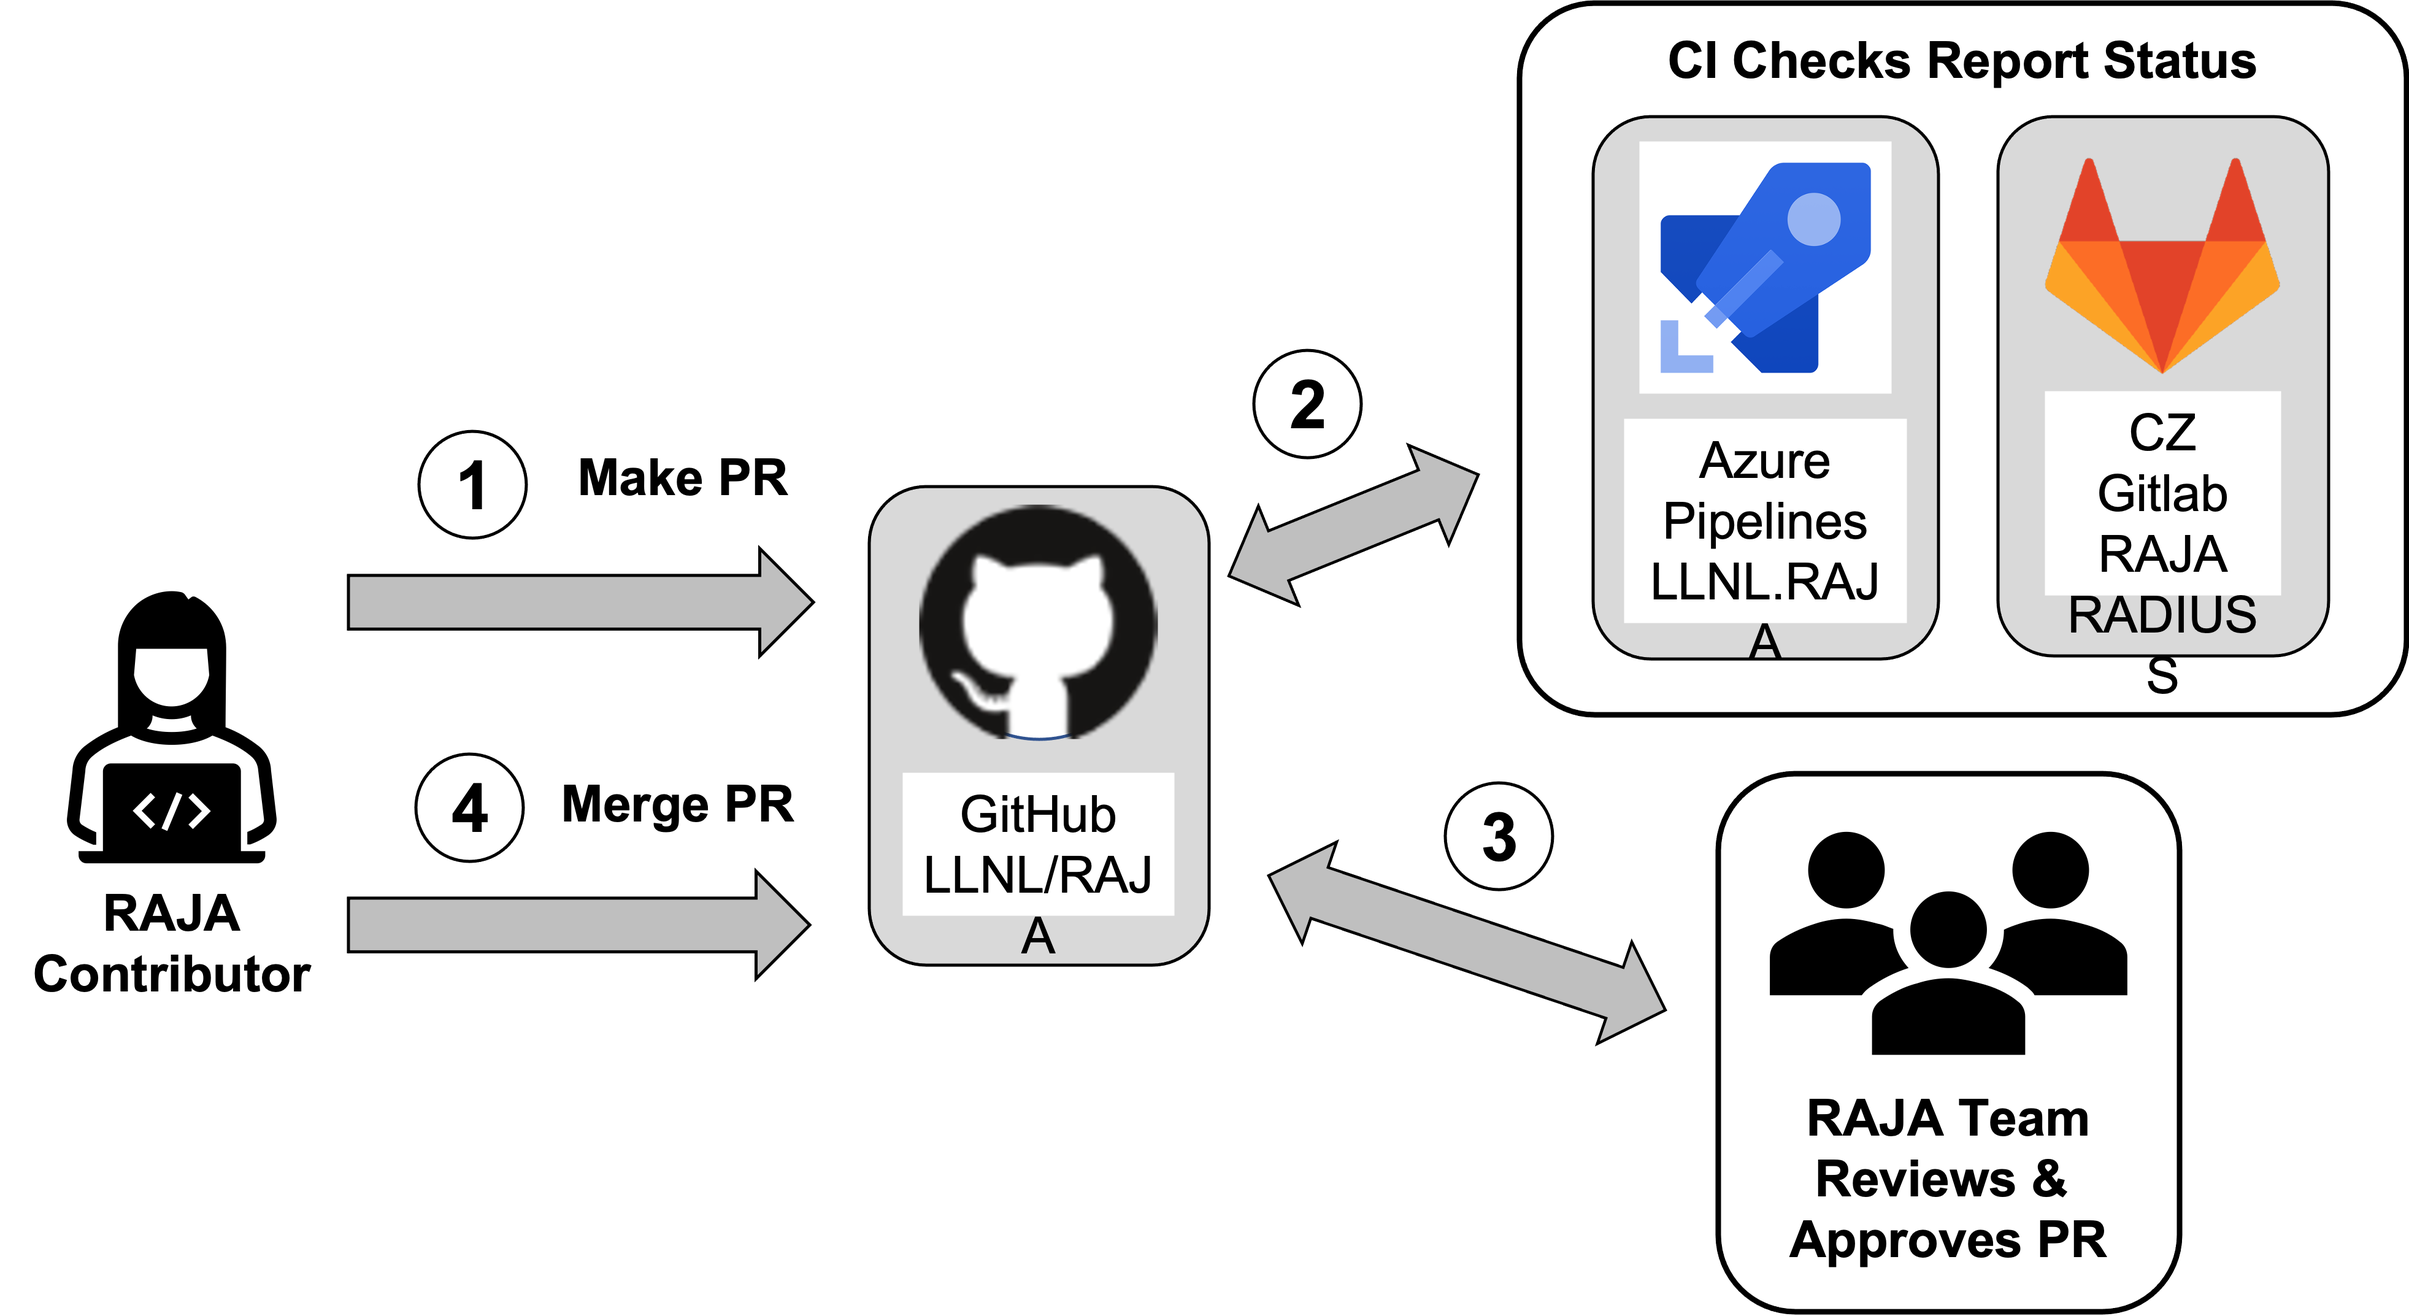
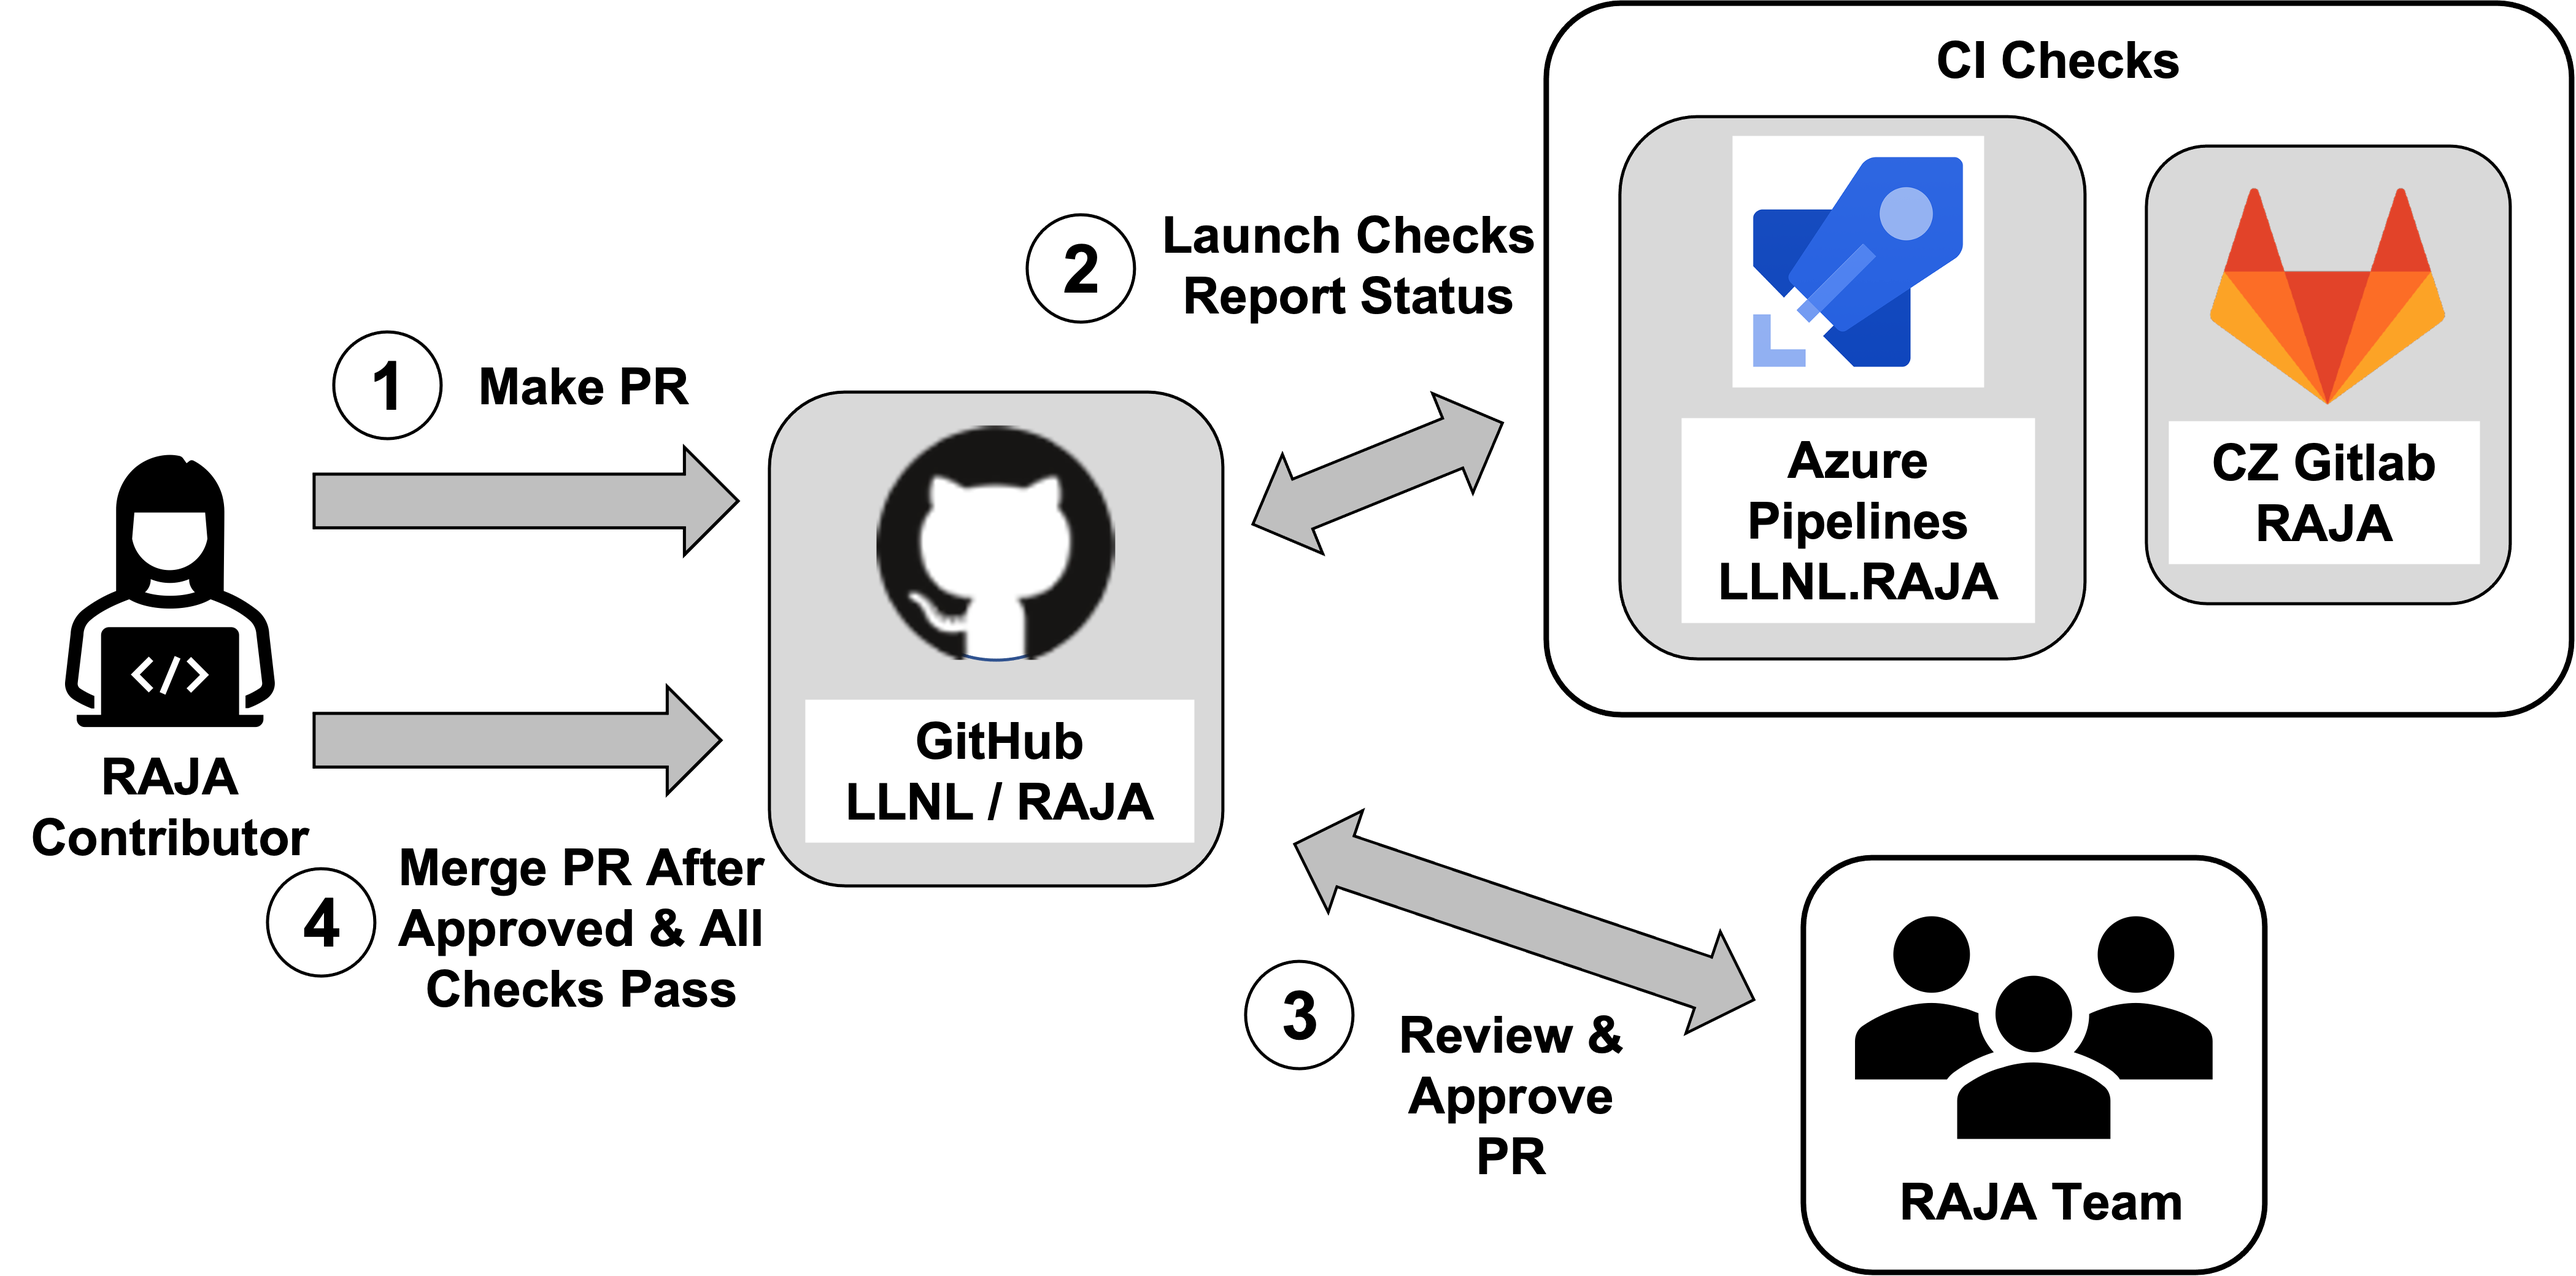
Add more gitlab ci description and new figs

diff --git a/docs/sphinx/dev_guide/ci.rst b/docs/sphinx/dev_guide/ci.rst
@@ -12,37 +12,51 @@
 Continuous Integration (CI) Testing
 ************************************
 
-The RAJA project employs multiple tools to run tests for each GitHub
-*pull request*, all of which must pass before the pull request will be merged.
-These tools include:
+The RAJA project employs multiple tools to run CI tests for each GitHub
+*Pull Request (PR)*. All test checks must pass before the pull request can 
+be merged. These tools include:
 
-  * **Azure Pipelines.** This runs builds for Linux, Windows, and MacOS 
-    environments using a variety of compilers. While we do GPU builds for 
-    CUDA, HIP, and SYCL on Azure, RAJA tests are only run each CPU-only 
-    pipeline.
+  * **Azure Pipelines** is used to run builds and tests for Linux, Windows, 
+    and MacOS environments using very recent versions of various compilers. 
+    While we do GPU builds for CUDA, HIP, and SYCL on Azure, RAJA tests are 
+    only run for CPU-only pipelines.
 
-  * **Gitlab.** We use the Livermore Computing (LC) Collaboration Zone (CZ)
-    Gitlab instance to run builds and tests on LC platforms. Execution of
-    RAJA CI pipelines on the LC Gitlab instance has restrictions that are
-    described bwlow.
+  * **Gitlab** instance in the Livermore Computing (LC) Collaboration Zone (CZ)
+    is used to run builds and tests with LC platform and compiler environments
+    most important to many RAJA user applications. Execution of RAJA CI 
+    pipelines on the LC Gitlab instance has restrictions described below.
 
 For the most part, these tools integrate seamlessly with GitHub. They 
 automatically (re)run RAJA builds and tests as changes are pushed to each 
 PR branch.
 
-The following figure illustrates the how CI testing fits into the RAJA 
-development workflow.
+The following figure illustrates the how CI test checks fit into the RAJA 
+development workflow. The process involves four main steps:
+
+  #. A RAJA contributor makes a PR on the RAJA GitHub project to merge a 
+     branch on which she has developed a contribution into another RAJA branch.
+     Most often, this is the develop branch.
+  #. Then, GitHub triggers Azure and Gitlab CI checks. Running and pass/fail
+     status is reported back to GitHub where it can be viewed and monitored.
+  #. Meanwhile RAJA team members review the PR, suggesting changes and/or 
+     approving when they think it is ready to merge. 
+  #. When all checks pass and the PR is approved by the required minimum 
+     number of reviewers, the PR may be merged.
 
 .. figure:: ./figures/PR-Workflow.png
 
-.. note:: The status of checks (pass/fail, running status) for each of these 
-          tools can be viewed by clicking the appropriate link in the **checks**
-          section of a pull request.
+   The four main steps in the RAJA pull request (PR) process, which are
+   common practices for many software projects.
+
+.. note:: * All test checks must pass before the pull request can be merged.
+          * The status (pass/fail and run) for all checks can be viewed by 
+            clicking the appropriate link in the **checks** section of a 
+            GitHub pull request.
 
 Gitlab CI
 =========
 
-Gitlab CI testing is still being developed to expand compiler and version 
+Gitlab CI testing is under development to expand compiler and version 
 coverage, as well as cross-project testing, such as building and running the
 `RAJA Performance Suite <https://github.com/LLNL/RAJAPerf>`_ when changes 
 are pushed to the RAJA develop branch. 
@@ -52,58 +66,111 @@ Constraints
 
 Running the RAJA Gitlab CI on Livermore Computing (LC) resources is 
 constrained by LC security policies. Auto-mirroring of a GitHub project repo
-on LC Gitlab requires that all memmbers of the GitHub project are members of 
+on LC Gitlab requires that all members of the GitHub project are members of 
 the LLNL GitHub organization and have two-factor authentication enabled on 
 their GitHub accounts. Gitlab CI will run automatically for such projects on 
 pull requests that are made by vetted project members. Otherwise, Gitlab CI 
 must be run manually by a vetted GitHub user satisfying the constraints just
 described.
 
-The folowing sections describe contents of the RAJA repository that support
-Gitlab CI testing in the LC CZ, how they fit together to define our
-Gitlab testing workflow, and how to perform basic maintenance and development
-tasks.
-
-Gitlab CI (LC CZ) Testing and Workflow
+Gitlab CI (LC CZ) Testing Workflow
 --------------------------------------
 
-The following figure illustrates the directories and files in the RAJA 
-repo that support Gitlab CI testing in the LC CZ. The file
+The next figure provides a high-level overview of the main steps in the 
+RAJA Gitlab CI testing workflow. We will describe the individual steps in
+more detail later. The main steps are:   
+
+  #. The process starts with the RAJA GitHub repo being *mirrored* to the 
+     RAJA project in the LC CZ Gitlab instance. When a PR is made on the RAJA 
+     GitHub project or whenever changes are pushed to the source branch of a 
+     PR, the mirroring occurs.
+  #. Gitlab CI test pipelines are launched. Execution and pass/fail status
+     may be viewed and monitored in the Gitlab CI GUI.
+  #. For each platform and compiler combination, the 
+     `Spack <https://github.com/spack/spack>`_ tool generates a build 
+     configuration in the form of a CMake cache or *host-config* file.
+  #. Based on the information in each host-config file, the RAJA code and tests
+     are built.
+  #. Next, the RAJA tests are run.
+  #. When a test pipeline completes, results are reported to Gitlab.
+
+In the next section, we will describe the roles that specific files in the 
+RAJA repo play in defining these steps.
+
+.. figure:: ./figures/RAJA-Gitlab-Workflow2.png
+
+   The main steps in the RAJA Gitlab CI testing workflow. This process is
+   triggered when a developer makes a PR on the GitHub project and is 
+   repeated whenever changes are pushed to the source branch of the PR.
+
+Gitlab CI (LC CZ) Testing Files
+--------------------------------------
+
+The following figure shows directories and files in the RAJA repo that 
+support LC CZ Gitlab CI testing. File names in blue denote that they are 
+specific to RAJA and owned by the RAJA team. Red directories and files denote 
+that they are part of Git submodules, shared and maintained with other projects.
+In the following sections, we discuss how these files are used to define the 
+steps in the RAJA Gitlab CI testing process described earlier.
 
 .. figure:: ./figures/RAJA-Gitlab-Files.png
 
-The following figure illustrates the Gitlab CI testing workflow.
+   Directories and files in the RAJA repo that support Gitlab CI testing.
+   Files in blue are specific to RAJA and owned by the RAJA team. Red 
+   directories and files are part of Git submodules shared with other 
+   projects.
 
-.. figure:: ./figures/RAJA-Gitlab-Workflow2.png
+Launching CI pipelines (step 2) 
+^^^^^^^^^^^^^^^^^^^^^^^^^^^^^^^^
+
+In step 2 of the diagram above, Gitlab launches RAJA test pipelines.
+The file ``RAJA/.gitlab-ci.yml`` defines high-level testing stages
+(resource allocation, build-and-test, and resource deallocation), names of 
+scripts that will run, and locations of files that define which jobs will run
+in each allocation.
+
+Running a CI build/test pipeline  (steps 3, 4, 5, 6)
+^^^^^^^^^^^^^^^^^^^^^^^^^^^^^^^^^^^^^^^^^^^^^^^^^^^^^
+
+The ``RAJA/.gitlab`` directory contains a *platform* and *jobs* file for each 
+LC platform where test pipelines will be run. The ``<platform>-templates.yml`` 
+file contains shared configuration information for pipelines that will be run 
+on the platform. The ``<platform>-jobs.yml`` file defines the build 
+specifications that will be use to generate test executables. Specifically, 
+they identify Spack *specs*.
+
+The ``scripts/gitlab/build_and_test.sh`` file defines the steps executed
+for each build and test run as well as information that will appear in the 
+log output for each. The process of executing a test pipeline extends the
+information in the script appropriately for each system. First, the script 
+runs the ``RAJA/scripts/uberenv/uberenv.py`` script (located in the 
+`uberenv <https://github.com/LLNL/uberenv>`_ submodule), which invokes Spack 
+to generate a CMake *host-config* file that contains a RAJA configuration 
+specification (step 3). 
+
+To generate a *host-config* file, Spack uses information in the RAJA Spack
+package file ``RAJA/scripts/spack_packages/raja/package.py`` and items
+defined in a given Spack configuration (i.e., *Spack spec*). Available Spack 
+configurations are defined in *packages* and *compilers* files in the 
+`radiuss-spack-configs <https://github.com/LLNL/radiuss-spack-configs>`_
+submodule; located in ``RAJA/scripts/radiuss-spack-configs`` directory.
+For each supported system/OS type, you will see files labeled as:
+``radiuss-spack-configs/<os-type>/compilers.yaml`` and 
+``radiuss-spack-configs/<os-type>/packages.yaml``
+
+After the host-config file is generated, the 
+``scripts/gitlab/build_and_test.sh`` script creates a build space directory 
+and runs CMake in it, passing the host-config (cache) file. Next, it builds 
+the RAJA tests (step 4) and runs the tests (step 5). 
+
+Lastly, the script packages the test results in a JUnit XML file, which Gitlab uses for reporting the results in its GUI.
 
 .. _vettedspecs-label:
 
 Vetted Specs
 ------------
 
-The *vetted* compiler specs are those which we use during the RAJA Gitlab CI
-testing process. These can be viewed by looking at files in the RAJA
-``.gitlab`` directory. For example,
-
-.. code-block:: bash
-
-  $ ls -c1 .gitlab/*jobs.yml
-  .gitlab/lassen-jobs.yml
-  .gitlab/ruby-jobs.yml
-
-lists the yaml files containing the Gitlab CI jobs for the lassen and ruby 
-machines.
-
-Then, executing a command such as:
-
-.. code-block:: bash
-
-  $ git grep -h "SPEC" .gitlab/ruby-jobs.yml | grep "gcc"
-      SPEC: "%gcc@4.9.3"
-      SPEC: "%gcc@6.1.0"
-      SPEC: "%gcc@7.3.0"
-      SPEC: "%gcc@8.1.0"
-
-will list the specs vetted on the ruby platform.
-
-More details to come...
+The Spack specifications we use in the RAJA Gitlab CI workflow should be 
+considered by users to be *vetted* in the sense that they are tested
+regularly. Specifically, every change pushed to the RAJA main and develop
+branches has been run though the build and test process described above.
